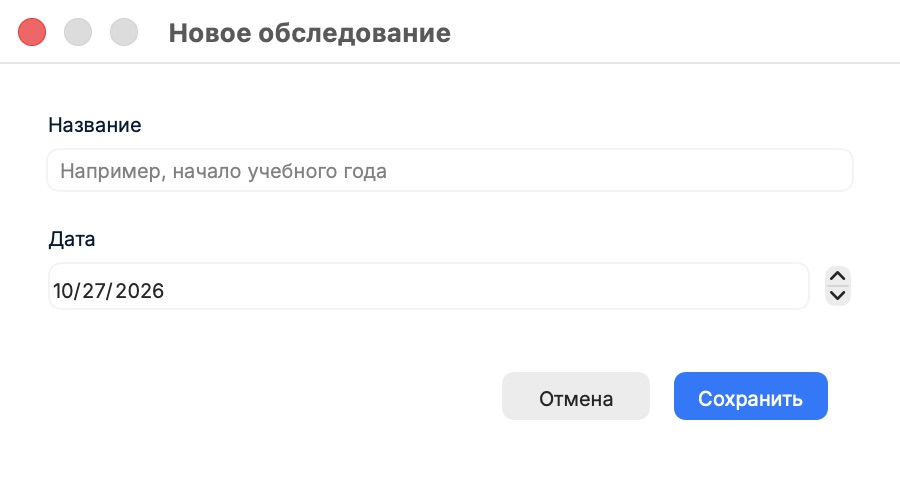
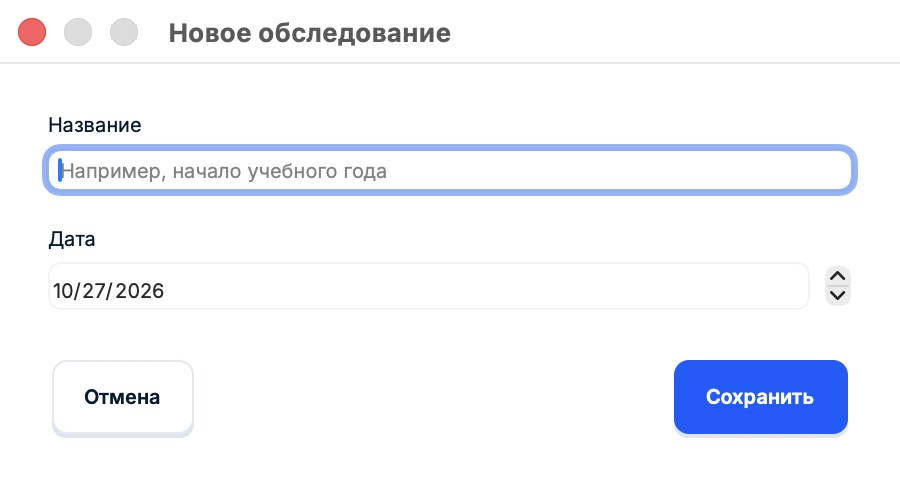
Show Electron-inspired native styling and document visual QA [skip ci]

diff --git a/README.md b/README.md
@@ -4,9 +4,15 @@
 
 Исходная [Electron-версия](https://github.com/pepelaz1/school-monitor-desktop) сохранена отдельно. Новый интерфейс использует настоящие настольные элементы управления; синий цвет и шрифт Inter сохранены, но это не пиксельная копия HTML-интерфейса.
 
-![Нативный интерфейс macOS — меню увеличено до 12 pt](docs/native-overview.png)
+![Нативный интерфейс macOS — Inter и оформление Electron](docs/native-overview.png)
 
 [Анкета](docs/native-questionnaire.png) · [Матрица](docs/native-matrix.png) · [Динамика](docs/native-history.png) · [Диалог](docs/native-dialog.png)
+
+## Оформление 0.1.2
+
+Перенесены Inter из исходного Electron-приложения, палитра `#005bff` / `#001a34`, белые карточки с рамками, радиусом 10 и мягкой тенью. Основные кнопки синие, дополнительные белые; состояния наведения, нажатия, фокуса и недоступности рисуются одинаково на Mac и Windows. Кнопки сохраняют нативные события, управление с клавиатуры и доступные названия. Пункты меню подсвечиваются при наведении и выборе. Графики сглаживаются средствами wxWidgets.
+
+Inter — тот же открытый шрифт, который использовался в Electron-версии; это не заявление об использовании фирменного шрифта Ozon. Выпадающие списки, календарь и файловые диалоги остаются системными: их внешний вид зависит от ОС. Нативное приложение сохраняет небольшой размер.
 
 ## Возможности
 
@@ -22,7 +28,7 @@
 
 ## Windows 11 x64 — распаковать и запустить
 
-В [релизе 0.1.1](https://github.com/pepelaz1/school-monitor-native/releases/tag/v0.1.1) опубликован ZIP с `SchoolMonitor.exe`, инструкцией и текстами лицензий. Библиотеки wxWidgets, SQLite, C/C++ runtime и шрифт встраиваются в EXE. Внешние DLL, установка фреймворков и доступ в интернет для работы не нужны. Windows API использует обычные системные DLL.
+В [релизе 0.1.2](https://github.com/pepelaz1/school-monitor-native/releases/tag/v0.1.2) опубликован ZIP с `SchoolMonitor.exe`, инструкцией и текстами лицензий. Библиотеки wxWidgets, SQLite, C/C++ runtime и шрифт встраиваются в EXE. Внешние DLL, установка фреймворков и доступ в интернет для работы не нужны. Windows API использует обычные системные DLL.
 
 При запуске приложение создаёт локальный каталог данных пользователя и извлекает туда шрифт для регистрации в текущем процессе. Демобаза хранится там же. Рабочую базу можно создать в выбранной папке. Поэтому один EXE — способ распространения, а не хранение всех пользовательских данных внутри исполняемого файла.
 
@@ -35,7 +41,7 @@
 | ZIP | около 164 МиБ | **5,29 МиБ** |
 | EXE | около 238 МиБ | **13,38 МиБ** |
 
-Нативный Windows-архив примерно в 31 раз меньше. ZIP содержит один EXE, инструкцию и лицензии. Проверена целостность ZIP и отсутствие внешних DLL. [Скачать Windows ZIP](https://github.com/pepelaz1/school-monitor-native/releases/download/v0.1.1/SchoolMonitor-Native-0.1.1-win11-x64.zip).
+Нативный Windows-архив примерно в 31 раз меньше. ZIP содержит один EXE, инструкцию и лицензии. Проверена целостность ZIP и отсутствие внешних DLL. [Скачать Windows ZIP](https://github.com/pepelaz1/school-monitor-native/releases/download/v0.1.2/SchoolMonitor-Native-0.1.2-win11-x64.zip).
 
 Также собрана macOS Apple Silicon версия (ZIP около 3 МиБ). Опубликованная Mac-сборка требует **macOS 26+**, поскольку собрана текущим SDK с этим deployment target. Для более старой macOS потребуется отдельная сборка с подходящим `CMAKE_OSX_DEPLOYMENT_TARGET`. Упаковка Mac: `scripts/package-mac.sh`.
 

diff --git a/docs/RELEASE-0.1.2.md b/docs/RELEASE-0.1.2.md
@@ -1,0 +1,7 @@
+Оформление ближе к исходной Electron-версии: Inter, синие основные и белые дополнительные кнопки, скруглённые карточки и панели с мягкой тенью, сглаженные графики. Подсветка меню при наведении, состояния кнопок при наведении, нажатии, фокусе и отключении.
+
+Кнопки сохраняют нативную доступность и клавиатурное управление. Выпадающие списки и календарь остаются системными.
+
+Windows: распакуйте ZIP и запустите SchoolMonitor.exe. Дополнительные DLL и фреймворки не нужны. Mac: Apple Silicon, macOS 26+.
+
+Проверены CTest, GUI smoke с PDF/CSV/SQLite, внешний вид и отмена диалогов на Mac. Windows проверяется в GitHub Actions (Windows Server); отдельный ручной тест на Windows 11 не выполнялся.
